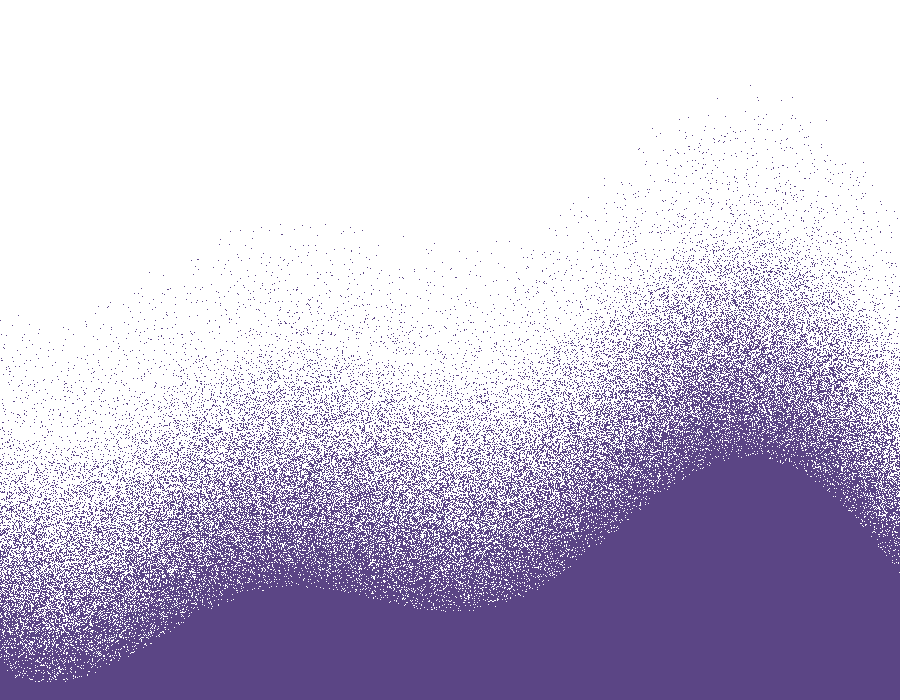
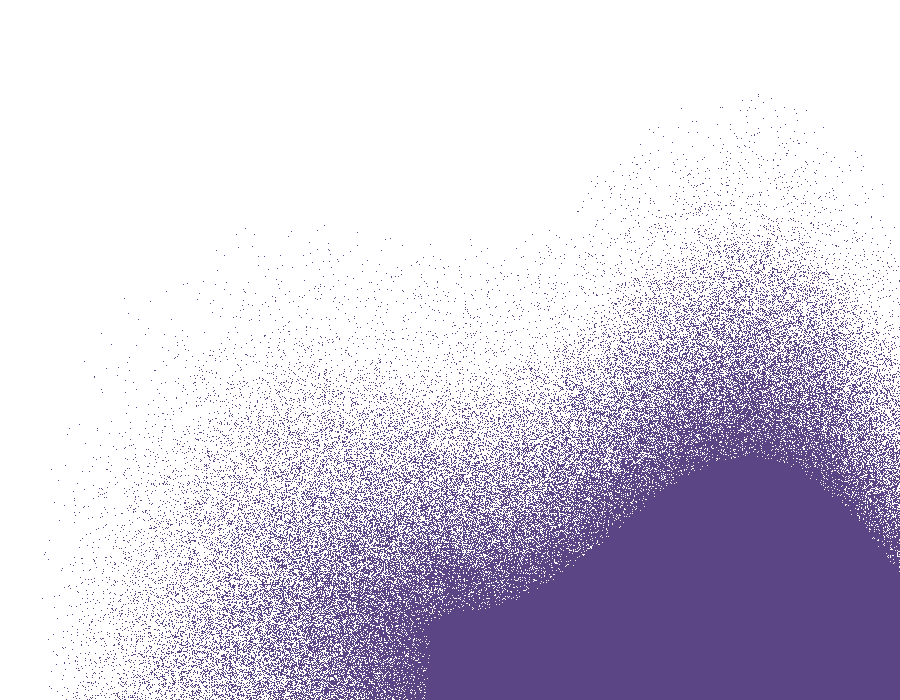
O que defendemos: névoa sem aresta dura, pé do celular que funciona, til livre, um acento só
- nevoa-roxa/teal regeneradas com fade à esquerda; caixa contínua (sem degrau em 900px), núcleo sai pelo pé; 404 idem
- padding-bottom do celular era regra morta (perdia para .secao): agora .secao.secao--papel com clamp
- convicção: line-height 1.12 (til do NÃO fundia com a linha de cima), piso maior no celular, ponto dentro do span
- SOZINHA em amarelo (um acento por painel de papel, como hero e concurso); marcador órfão removido
- papel preto em max(100%, 900px) para o vinco não repetir; grão mais discreto
- print: SOZINHA em rosa-texto e fio do kicker preto; emenda com O que fazemos equilibrada
- css v=53 nas 4 páginas

Changed region(s): [[0.0, 0.3, 1.0, 1.0]]

diff --git a/css/style.css b/css/style.css
@@ -405,29 +405,28 @@ button.hashtag[data-copiado]::selection { background: var(--tinta); color: var(-
 }
 
 .secao--papel { position: relative; overflow: hidden; }
+/* pé cresce de 4rem (≥900px) a 8rem (≤675px) para a névoa ficar abaixo do parágrafo no celular */
+.secao.secao--papel { padding-bottom: clamp(4rem, 20rem - 28.45vw, 8rem); }
 .secao--papel > .container { position: relative; z-index: 1; }
 
+/* névoa do manual nasce do canto inferior direito: o asset esvanece à esquerda e no topo,
+   a caixa sangra pela direita e o núcleo denso sai pelo pé; nenhuma aresta aparece no painel */
 .secao--papel::before {
   content: "";
   position: absolute;
   right: -6%;
-  bottom: -8%;
-  width: min(46vw, 720px);
+  bottom: 0;
+  width: min(max(46vw, 520px), 90vw, 720px);
   aspect-ratio: 900 / 700;
   background: url("../assets/texturas/nevoa-roxa.webp") center / contain no-repeat;
   opacity: 0.85;
+  transform: translateY(22%);
   pointer-events: none;
 }
 
-.secao--papel .convicao { color: var(--branco); max-width: 14ch; }
-.secao--papel .convicao span { background: none; -webkit-background-clip: border-box; background-clip: border-box; color: var(--rosa); }
-.secao--papel .apoio { color: rgba(255, 255, 255, 0.85); }
-.secao--papel .apoio--marcado::before { border-color: var(--branco); background: var(--amarelo); }
-
-@media (max-width: 899.98px) {
-  .secao--papel { padding-bottom: 12rem; }
-  .secao--papel::before { width: min(90vw, 520px); right: -20%; bottom: -10%; }
-}
+.secao--papel .convicao { color: var(--branco); }
+.secao--papel .convicao span { color: var(--amarelo); }
+.secao--papel .apoio { color: rgba(255, 255, 255, 0.85); margin-top: 1.6rem; max-width: 52ch; }
 
 .faixa--no-papel { background: transparent; border-top: 1px solid rgba(255, 255, 255, 0.28); border-bottom: 0; }
 
@@ -603,7 +602,7 @@ button.hashtag[data-copiado]::selection { background: var(--tinta); color: var(-
 .painel-papel {
   background-color: #202020;
   background-image: url("../assets/texturas/grao.png"), url("../assets/texturas/papel-preto.webp");
-  background-size: 512px 512px, 900px auto;
+  background-size: 512px 512px, max(100%, 900px) auto;
   background-repeat: repeat, repeat;
   background-position: 0 0, center top;
   color: var(--branco);
@@ -639,6 +638,9 @@ button.hashtag[data-copiado]::selection { background: var(--tinta); color: var(-
   grid-column: 1 / -1;
   max-width: 46rem;
 }
+
+/* o fecho da seção já dá o respiro: sem somar o pé da grade, a emenda com o painel seguinte fica igual à de baixo */
+.bloco:last-of-type .bloco__grade { padding-bottom: 0; }
 
 @media (min-width: 900px) {
   .bloco__grade {
@@ -750,43 +752,15 @@ button.hashtag[data-copiado]::selection { background: var(--tinta); color: var(-
 
 .convicao {
   font-family: var(--fonte-dizeres);
-  font-size: clamp(2.3rem, 6vw, 3.9rem);
-  line-height: 1;
+  font-size: clamp(min(3rem, 13.5vw), 6vw, 3.9rem);
+  line-height: 1.12; /* Anton em caixa alta: abaixo disso o til do Ã encosta na linha de cima */
   letter-spacing: 0;
   text-transform: uppercase;
   margin-top: 2.2rem;
-  max-width: 18ch;
+  max-width: 14ch;
 }
 
 .convicao span { color: var(--rosa-texto); }
-
-@supports ((-webkit-background-clip: text) or (background-clip: text)) {
-  .convicao span {
-    background-image: var(--grad-texto);
-    -webkit-background-clip: text;
-    background-clip: text;
-    color: transparent;
-  }
-}
-
-.apoio--marcado {
-  margin-top: 1.6rem;
-  max-width: 52ch;
-  position: relative;
-  padding-left: 1.7rem;
-}
-
-.apoio--marcado::before {
-  content: "";
-  position: absolute;
-  left: 0;
-  top: 0.32em;
-  width: 14px;
-  height: 14px;
-  border-radius: 5px;
-  border: 2px solid var(--preto);
-  background-image: var(--grad);
-}
 
 /* ==========================================================================
    Participe: portas-cartaz
@@ -1130,8 +1104,9 @@ button.hashtag[data-copiado]::selection { background: var(--tinta); color: var(-
   content: "";
   position: absolute;
   right: -6%;
-  bottom: -8%;
-  width: min(50vw, 720px);
+  bottom: 0;
+  transform: translateY(22%);
+  width: min(max(50vw, 520px), 90vw, 720px);
   aspect-ratio: 900 / 700;
   background: url("../assets/texturas/nevoa-teal.webp") center / contain no-repeat;
   opacity: 0.85;
@@ -1144,7 +1119,6 @@ button.hashtag[data-copiado]::selection { background: var(--tinta); color: var(-
 
 @media (max-width: 759.98px) {
   .pagina-404-fundo .pagina-404 { justify-content: flex-start; padding-top: 4rem; padding-bottom: 12rem; }
-  .pagina-404-fundo::before { width: min(90vw, 520px); right: -20%; bottom: -10%; }
 }
 
 .pagina-404 {
@@ -1349,7 +1323,7 @@ button.hashtag[data-copiado]::selection { background: var(--tinta); color: var(-
 .edital-leitura {
   background-color: #202020;
   background-image: url("../assets/texturas/grao.png"), url("../assets/texturas/papel-preto.webp");
-  background-size: 512px 512px, 900px auto;
+  background-size: 512px 512px, max(100%, 900px) auto;
   background-repeat: repeat, repeat;
 }
 
@@ -2240,6 +2214,8 @@ html.tem-js .edital__corpo article + article.artigo--visto::before {
   .faixa-edital, .edital-leitura, .formulario { background-image: none; }
   .secao--papel::before, .pagina-404-fundo::before { display: none; }
   .secao--papel .convicao, .secao--papel .apoio { color: var(--tinta); }
+  .painel-papel .cabeca::after { height: 3px; background: var(--preto); }
+  .secao.secao--papel { padding-bottom: 0.4rem; }
   .concurso-so-print { display: flex; }
   .concurso-abre .concurso__titulo, .concurso-abre .concurso__sub { color: var(--tinta) !important; }
   * {
@@ -2299,6 +2275,7 @@ html.tem-js .edital__corpo article + article.artigo--visto::before {
   /* texto recortado em degradê imprime com contorno fantasma: no papel vira cor sólida */
   .dizer,
   .concurso__titulo span,
+  .secao--papel .convicao span,
   .edital__essencial b {
     background: none !important;
     -webkit-background-clip: border-box !important;

diff --git a/index.html b/index.html
@@ -35,7 +35,7 @@
   <link rel="icon" type="image/png" sizes="64x64" href="assets/favicon-64.png">
   <link rel="apple-touch-icon" href="assets/apple-touch-icon.png">
 
-  <link rel="stylesheet" href="css/style.css?v=52">
+  <link rel="stylesheet" href="css/style.css?v=53">
 
   <script type="application/ld+json">{"@context":"https://schema.org","@type":"Organization","name":"Se Mexa Também","alternateName":["SMT","Silent Majority Talks"],"url":"https://semexatambem.com/","logo":"https://semexatambem.com/assets/og.png","email":"silentmajoritytalks2026@gmail.com","sameAs":["https://www.instagram.com/semexatambem"]}</script>
 </head>
@@ -180,8 +180,8 @@
         <div class="cabeca">
           <h2 id="titulo-defendemos" class="dizer">O que defendemos</h2>
         </div>
-        <p class="convicao">A democracia não se defende <span>sozinha</span>.</p>
-        <p class="apoio apoio--marcado">Defendemos que as decisões sobre a vida das pessoas passem pelas pessoas. Isso exige participação constante, informação verificável e recusa firme ao ódio e à mentira organizada. Exige, sobretudo, gente conversando com gente, todos os dias, em todo lugar. É por esse trabalho que a gente se mexe.</p>
+        <p class="convicao">A democracia não se defende <span>sozinha.</span></p>
+        <p class="apoio">Defendemos que as decisões sobre a vida das pessoas passem pelas pessoas. Isso exige participação constante, informação verificável e recusa firme ao ódio e à mentira organizada. Exige, sobretudo, gente conversando com gente, todos os dias, em todo lugar. É por esse trabalho que a gente se mexe.</p>
       </div>
     </section>
 

diff --git a/concurso/index.html b/concurso/index.html
@@ -26,7 +26,7 @@
   <link rel="icon" type="image/svg+xml" href="/assets/favicon.svg">
   <link rel="icon" type="image/png" sizes="64x64" href="/assets/favicon-64.png">
   <link rel="apple-touch-icon" href="/assets/apple-touch-icon.png">
-  <link rel="stylesheet" href="/css/style.css?v=52">
+  <link rel="stylesheet" href="/css/style.css?v=53">
 </head>
 <body class="pagina-edital pagina-concurso">
   <a class="pular" href="#premios">Pular para o conteúdo</a>

diff --git a/edital/index.html b/edital/index.html
@@ -26,7 +26,7 @@
   <link rel="icon" type="image/svg+xml" href="/assets/favicon.svg">
   <link rel="icon" type="image/png" sizes="64x64" href="/assets/favicon-64.png">
   <link rel="apple-touch-icon" href="/assets/apple-touch-icon.png">
-  <link rel="stylesheet" href="/css/style.css?v=52">
+  <link rel="stylesheet" href="/css/style.css?v=53">
 </head>
 <body class="pagina-edital">
   <a class="pular" href="#texto">Pular para o conteúdo</a>

diff --git a/404.html b/404.html
@@ -14,7 +14,7 @@
   <link rel="icon" type="image/svg+xml" href="/assets/favicon.svg">
   <link rel="icon" type="image/png" sizes="64x64" href="/assets/favicon-64.png">
   <link rel="apple-touch-icon" href="/assets/apple-touch-icon.png">
-  <link rel="stylesheet" href="/css/style.css?v=52">
+  <link rel="stylesheet" href="/css/style.css?v=53">
 </head>
 <body class="painel-papel pagina-404-fundo">
   <main class="container pagina-404">

diff --git a/ferramentas/gera_texturas.py b/ferramentas/gera_texturas.py
@@ -72,9 +72,11 @@ def grao():
     n = 512
     alpha = np.zeros((n, n), np.uint8)
     m = rng.random((n, n))
-    alpha[m < 0.020] = 22
-    alpha[m < 0.004] = 55
-    alpha[m < 0.0006] = 110
+    # pontos discretos: o mais claro fica abaixo dos realces do proprio papel (~#4b sobre #20),
+    # senao o grao le como ceu estrelado
+    alpha[m < 0.020] = 16
+    alpha[m < 0.004] = 36
+    alpha[m < 0.0006] = 56
     rgba = np.dstack([np.full((n, n), 255, np.uint8)] * 3 + [alpha])
     p = os.path.join(OUT, "grao.png")
     Image.fromarray(rgba, "RGBA").save(p, "PNG", optimize=True)
@@ -89,10 +91,14 @@ def nevoa(nome, cor, lado):
     # duas lombadas, mais alta no canto (direita ou esquerda), como na prancha
     d = yn - 0.35 - 0.18 * np.sin(4.5 * xn + 1.0) - 0.08 * np.cos(11 * xn) - 0.22 * xn
     mask = np.clip(d / 0.40, 0, 1) ** 1.2          # rampa curta: nucleo solido ocupa ~30% da altura
+    # nasce de um canto: a densidade vai a zero no lado oposto (fade nos 46% iniciais),
+    # senao a coluna 0 fica opaca e aparece como aresta reta quando a caixa cai dentro do painel
+    fx = np.clip((xn - 0.04) / 0.46, 0, 1) ** 1.4
+    mask = mask * fx
     dots = rng.random((H, W)) < mask
     solid = mask > 0.93
     borda = np.clip((d + 0.16) / 0.16, 0, 1)      # spray so numa faixa de ~110 px acima da borda
-    spray = rng.random((H, W)) < (0.035 * borda * (mask < 0.02))
+    spray = rng.random((H, W)) < (0.035 * borda * (mask < 0.02) * fx)
     alpha = np.where(dots | solid | spray, 255, 0).astype(np.uint8)
     rgb = np.zeros((H, W, 3), np.uint8)
     rgb[...] = cor

diff --git a/README.md b/README.md
@@ -57,7 +57,7 @@ O domínio próprio é https://semexatambem.com (DNS na Hostinger, 4 registros A
 
 ## Texturas e formas do manual
 
-`assets/texturas/` tem 5 arquivos gerados por `ferramentas/gera_texturas.py` (numpy + Pillow) a partir do recorte do papel preto amassado da prancha de texturas: `papel-preto.webp` (UM tile costurado por crossfade, sem espelho, brilho travado em #40), `papel-amarelo.webp` (mesmo relevo sobre #FFBC3B), `grao.png` (pontinhos em alfa por cima do papel), `nevoa-roxa.webp` e `nevoa-teal.webp` (névoa granulada sintetizada, RGBA). Onde entram: utilitário `.painel-papel` (hero e "O que defendemos" na home, abertura do concurso, 404), `.faixa-edital` em papel amarelo, `.edital-leitura` (folha branca sobre papel), formulário de influenciadores em papel amarelo quando a fita do concurso sai (`html.sem-faixa`). Regras: cor sólida (amarelo, magenta) só sobre o tile de papel preto; branco sobre qualquer papel; nenhum texto sobre o núcleo das névoas; no print tudo vira branco/tinta. `assets/formas/estrela.svg` é a única forma solta (o "agora" da linha do tempo). Se o designer mandar o papel original em alta (≥ 2000 px), basta rodar o script de novo com o novo recorte.
+`assets/texturas/` tem 5 arquivos gerados por `ferramentas/gera_texturas.py` (numpy + Pillow) a partir do recorte do papel preto amassado da prancha de texturas: `papel-preto.webp` (UM tile costurado por crossfade, sem espelho, brilho travado em #40), `papel-amarelo.webp` (mesmo relevo sobre #FFBC3B), `grao.png` (pontinhos em alfa por cima do papel), `nevoa-roxa.webp` e `nevoa-teal.webp` (névoa granulada sintetizada, RGBA). Onde entram: utilitário `.painel-papel` (hero e "O que defendemos" na home, abertura do concurso, 404), `.faixa-edital` em papel amarelo, `.edital-leitura` (folha branca sobre papel), formulário de influenciadores em papel amarelo quando a fita do concurso sai (`html.sem-faixa`). Regras: cor sólida (amarelo, magenta) só sobre o tile de papel preto; branco sobre qualquer papel; nenhum texto sobre o núcleo das névoas; no print tudo vira branco/tinta; uma só cor de acento por painel de papel (amarelo). As névoas nascem de um canto: o asset esvanece à esquerda e no topo, a caixa sangra pela direita e o núcleo sai pelo pé (`transform: translateY(22%)`), então nenhuma aresta reta aparece dentro do painel. O papel preto é desenhado com `max(100%, 900px)` de largura, para o vinco não se repetir na mesma tela. `assets/formas/estrela.svg` é a única forma solta (o "agora" da linha do tempo). Se o designer mandar o papel original em alta (≥ 2000 px), basta rodar o script de novo com o novo recorte.
 
 ## Página do edital
 
